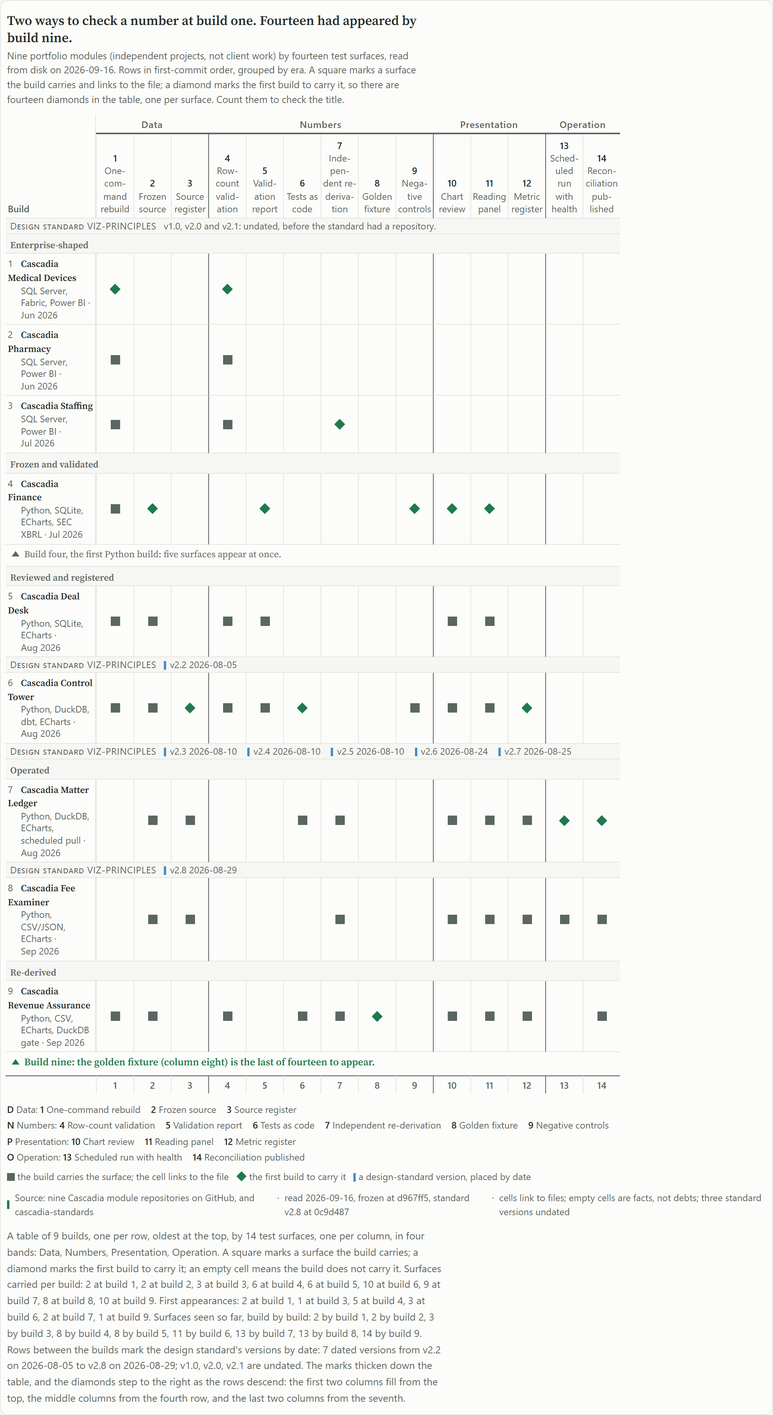
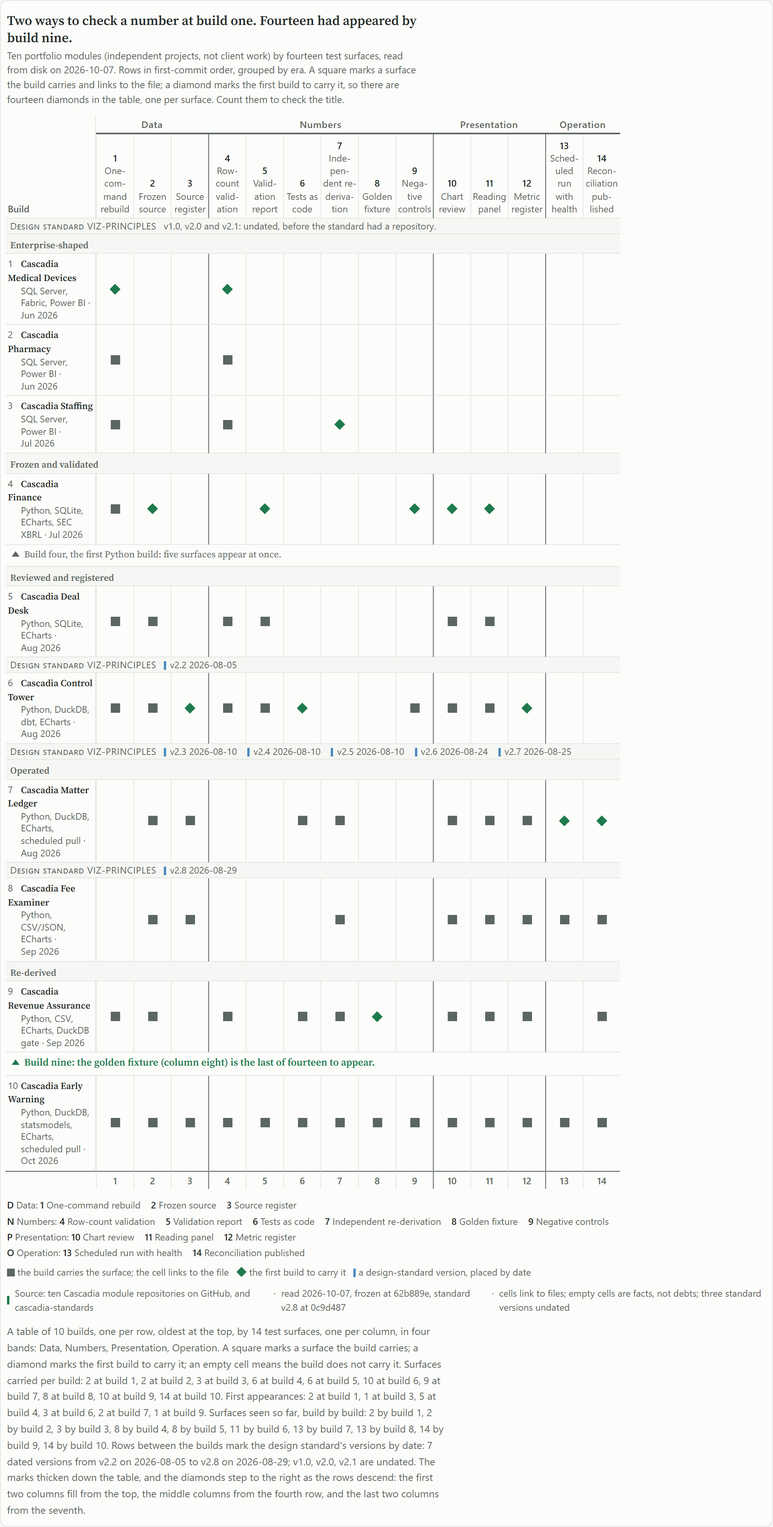
freeze.toml: baseline moved to the 2026-10-07 refreeze; the page rebuilt against it and re-rendered at the K6 ladder

diff --git a/docs/index.html b/docs/index.html
@@ -182,9 +182,9 @@
 <h2>The test-surface matrix</h2>
 <div class="chart-card" id="matrix">
   <h3 class="finding" id="matrix-title">Two ways to check a number at build one. Fourteen had appeared by build nine.</h3>
-  <p class="sub" id="matrix-sub">Nine portfolio modules (independent projects, not client work) by fourteen test surfaces, read from disk on 2026-09-16. Rows in first-commit order, grouped by era. A square marks a surface the build carries and links to the file; a diamond marks the first build to carry it, so there are fourteen diamonds in the table, one per surface. Count them to check the title.</p>
+  <p class="sub" id="matrix-sub">Ten portfolio modules (independent projects, not client work) by fourteen test surfaces, read from disk on 2026-10-07. Rows in first-commit order, grouped by era. A square marks a surface the build carries and links to the file; a diamond marks the first build to carry it, so there are fourteen diamonds in the table, one per surface. Count them to check the title.</p>
   <p class="scroll-hint">The table is wider than this screen and scrolls sideways. All fourteen columns are there.</p>
-  <p class="chart-summary" id="matrix-summary">A table of 9 builds, one per row, oldest at the top, by 14 test surfaces, one per column, in four bands: Data, Numbers, Presentation, Operation. A square marks a surface the build carries; a diamond marks the first build to carry it; an empty cell means the build does not carry it. Surfaces carried per build: 2 at build 1, 2 at build 2, 3 at build 3, 6 at build 4, 6 at build 5, 10 at build 6, 9 at build 7, 8 at build 8, 10 at build 9. First appearances: 2 at build 1, 1 at build 3, 5 at build 4, 3 at build 6, 2 at build 7, 1 at build 9. Surfaces seen so far, build by build: 2 by build 1, 2 by build 2, 3 by build 3, 8 by build 4, 8 by build 5, 11 by build 6, 13 by build 7, 13 by build 8, 14 by build 9. Rows between the builds mark the design standard&#x27;s versions by date: 7 dated versions from v2.2 on 2026-08-05 to v2.8 on 2026-08-29; v1.0, v2.0, v2.1 are undated. The marks thicken down the table, and the diamonds step to the right as the rows descend: the first two columns fill from the top, the middle columns from the fourth row, and the last two columns from the seventh.</p>
+  <p class="chart-summary" id="matrix-summary">A table of 10 builds, one per row, oldest at the top, by 14 test surfaces, one per column, in four bands: Data, Numbers, Presentation, Operation. A square marks a surface the build carries; a diamond marks the first build to carry it; an empty cell means the build does not carry it. Surfaces carried per build: 2 at build 1, 2 at build 2, 3 at build 3, 6 at build 4, 6 at build 5, 10 at build 6, 9 at build 7, 8 at build 8, 10 at build 9, 14 at build 10. First appearances: 2 at build 1, 1 at build 3, 5 at build 4, 3 at build 6, 2 at build 7, 1 at build 9. Surfaces seen so far, build by build: 2 by build 1, 2 by build 2, 3 by build 3, 8 by build 4, 8 by build 5, 11 by build 6, 13 by build 7, 13 by build 8, 14 by build 9, 14 by build 10. Rows between the builds mark the design standard&#x27;s versions by date: 7 dated versions from v2.2 on 2026-08-05 to v2.8 on 2026-08-29; v1.0, v2.0, v2.1 are undated. The marks thicken down the table, and the diamonds step to the right as the rows descend: the first two columns fill from the top, the middle columns from the fourth row, and the last two columns from the seventh.</p>
   <div class="table-scroll" tabindex="0" aria-label="Scrollable matrix">
 <table class="matrix" aria-labelledby="matrix-title" aria-describedby="matrix-sub matrix-summary">
 <thead>
@@ -206,12 +206,13 @@
 <tr class="build"><th scope="row" class="build-label"><span class="ord" aria-hidden="true">6</span><a href="https://www.robbinsanalytics.com/projects/cascadia-controltower.html">Cascadia Control Tower</a><span class="meta">Python, DuckDB, dbt, ECharts <span class="dot">·</span> <span class="when">Aug 2026</span></span></th><td class="cell"><a class="mark" href="https://github.com/RobbinsAnalytics/cascadia-controltower/blob/main/README.md" title="README.md" aria-label="One-command rebuild: README.md in cascadia-controltower"><span aria-hidden="true"></span></a></td><td class="cell"><a class="mark" href="https://github.com/RobbinsAnalytics/cascadia-controltower/blob/main/governance/freeze.toml" title="governance/freeze.toml" aria-label="Frozen source: governance/freeze.toml in cascadia-controltower"><span aria-hidden="true"></span></a></td><td class="cell"><a class="mark first" href="https://github.com/RobbinsAnalytics/cascadia-controltower/blob/main/data/raw/manifest.json" title="data/raw/manifest.json" aria-label="Source register: data/raw/manifest.json in cascadia-controltower, the first build to carry it"><span aria-hidden="true"></span></a></td><td class="cell band-start"><a class="mark" href="https://github.com/RobbinsAnalytics/cascadia-controltower/blob/main/validate.py" title="validate.py" aria-label="Row-count validation: validate.py in cascadia-controltower"><span aria-hidden="true"></span></a></td><td class="cell"><a class="mark" href="https://github.com/RobbinsAnalytics/cascadia-controltower/blob/main/governance/validation_report.md" title="governance/validation_report.md" aria-label="Validation report: governance/validation_report.md in cascadia-controltower"><span aria-hidden="true"></span></a></td><td class="cell"><a class="mark first" href="https://github.com/RobbinsAnalytics/cascadia-controltower/tree/main/dbt/tests/" title="dbt/tests/" aria-label="Tests as code: dbt/tests/ in cascadia-controltower, the first build to carry it"><span aria-hidden="true"></span></a></td><td class="cell empty"></td><td class="cell empty"></td><td class="cell"><a class="mark" href="https://github.com/RobbinsAnalytics/cascadia-controltower/blob/main/governance/validation_report.md" title="governance/validation_report.md" aria-label="Negative controls: governance/validation_report.md in cascadia-controltower"><span aria-hidden="true"></span></a></td><td class="cell band-start"><a class="mark" href="https://github.com/RobbinsAnalytics/cascadia-controltower/blob/main/governance/chart-review.md" title="governance/chart-review.md" aria-label="Chart review: governance/chart-review.md in cascadia-controltower"><span aria-hidden="true"></span></a></td><td class="cell"><a class="mark" href="https://github.com/RobbinsAnalytics/cascadia-controltower/blob/main/governance/reading-panel-returns-2026-08-09.md" title="governance/reading-panel-returns-2026-08-09.md" aria-label="Reading panel: governance/reading-panel-returns-2026-08-09.md in cascadia-controltower"><span aria-hidden="true"></span></a></td><td class="cell"><a class="mark first" href="https://github.com/RobbinsAnalytics/cascadia-controltower/blob/main/governance/metric_register.md" title="governance/metric_register.md" aria-label="Metric register: governance/metric_register.md in cascadia-controltower, the first build to carry it"><span aria-hidden="true"></span></a></td><td class="cell empty band-start"></td><td class="cell empty"></td></tr>
 <tr class="lane"><td colspan="16"><div class="stick"><span class="lane-label">Design standard VIZ-PRINCIPLES</span> <span class="lane-mark"><span class="lane-tick" aria-hidden="true"></span>v2.3 <span class="lane-date">2026-08-10</span></span> <span class="lane-mark"><span class="lane-tick" aria-hidden="true"></span>v2.4 <span class="lane-date">2026-08-10</span></span> <span class="lane-mark"><span class="lane-tick" aria-hidden="true"></span>v2.5 <span class="lane-date">2026-08-10</span></span> <span class="lane-mark"><span class="lane-tick" aria-hidden="true"></span>v2.6 <span class="lane-date">2026-08-24</span></span> <span class="lane-mark"><span class="lane-tick" aria-hidden="true"></span>v2.7 <span class="lane-date">2026-08-25</span></span></div></td></tr>
 <tr class="era-row"><th scope="rowgroup" colspan="15"><div class="stick">Operated</div></th></tr>
-<tr class="build"><th scope="rowgroup" class="era" rowspan="3"><span>Oper&shy;ated</span></th><th scope="row" class="build-label"><span class="ord" aria-hidden="true">7</span><a href="https://www.robbinsanalytics.com/projects/cascadia-matter-ledger.html">Cascadia Matter Ledger</a><span class="meta">Python, DuckDB, ECharts, scheduled pull <span class="dot">·</span> <span class="when">Aug 2026</span></span></th><td class="cell empty"></td><td class="cell"><a class="mark" href="https://github.com/RobbinsAnalytics/cascadia-matter-ledger/blob/main/governance/freeze.toml" title="governance/freeze.toml" aria-label="Frozen source: governance/freeze.toml in cascadia-matter-ledger"><span aria-hidden="true"></span></a></td><td class="cell"><a class="mark" href="https://github.com/RobbinsAnalytics/cascadia-matter-ledger/blob/main/governance/source-register.md" title="governance/source-register.md" aria-label="Source register: governance/source-register.md in cascadia-matter-ledger"><span aria-hidden="true"></span></a></td><td class="cell empty band-start"></td><td class="cell empty"></td><td class="cell"><a class="mark" href="https://github.com/RobbinsAnalytics/cascadia-matter-ledger/blob/main/src/test_touch_readout.py" title="src/test_touch_readout.py" aria-label="Tests as code: src/test_touch_readout.py in cascadia-matter-ledger"><span aria-hidden="true"></span></a></td><td class="cell"><a class="mark" href="https://github.com/RobbinsAnalytics/cascadia-matter-ledger/blob/main/src/validate_measures.py" title="src/validate_measures.py" aria-label="Independent re-derivation: src/validate_measures.py in cascadia-matter-ledger"><span aria-hidden="true"></span></a></td><td class="cell empty"></td><td class="cell empty"></td><td class="cell band-start"><a class="mark" href="https://github.com/RobbinsAnalytics/cascadia-matter-ledger/blob/main/governance/chart-review.md" title="governance/chart-review.md" aria-label="Chart review: governance/chart-review.md in cascadia-matter-ledger"><span aria-hidden="true"></span></a></td><td class="cell"><a class="mark" href="https://github.com/RobbinsAnalytics/cascadia-matter-ledger/blob/main/governance/panel/findings.json" title="governance/panel/findings.json" aria-label="Reading panel: governance/panel/findings.json in cascadia-matter-ledger"><span aria-hidden="true"></span></a></td><td class="cell"><a class="mark" href="https://github.com/RobbinsAnalytics/cascadia-matter-ledger/blob/main/governance/metric_register.md" title="governance/metric_register.md" aria-label="Metric register: governance/metric_register.md in cascadia-matter-ledger"><span aria-hidden="true"></span></a></td><td class="cell band-start"><a class="mark first" href="https://github.com/RobbinsAnalytics/cascadia-matter-ledger/blob/main/governance/health.json" title="governance/health.json" aria-label="Scheduled run with health: governance/health.json in cascadia-matter-ledger, the first build to carry it"><span aria-hidden="true"></span></a></td><td class="cell"><a class="mark first" href="https://github.com/RobbinsAnalytics/cascadia-matter-ledger/blob/main/governance/reconciliation.md" title="governance/reconciliation.md" aria-label="Reconciliation published: governance/reconciliation.md in cascadia-matter-ledger, the first build to carry it"><span aria-hidden="true"></span></a></td></tr>
+<tr class="build"><th scope="rowgroup" class="era" rowspan="3"><span>Oper&shy;ated</span></th><th scope="row" class="build-label"><span class="ord" aria-hidden="true">7</span><a href="https://www.robbinsanalytics.com/projects/cascadia-matter-ledger.html">Cascadia Matter Ledger</a><span class="meta">Python, DuckDB, ECharts, scheduled pull <span class="dot">·</span> <span class="when">Aug 2026</span></span></th><td class="cell empty"></td><td class="cell"><a class="mark" href="https://github.com/RobbinsAnalytics/cascadia-matter-ledger/blob/main/governance/freeze.toml" title="governance/freeze.toml" aria-label="Frozen source: governance/freeze.toml in cascadia-matter-ledger"><span aria-hidden="true"></span></a></td><td class="cell"><a class="mark" href="https://github.com/RobbinsAnalytics/cascadia-matter-ledger/blob/main/governance/source-register.md" title="governance/source-register.md" aria-label="Source register: governance/source-register.md in cascadia-matter-ledger"><span aria-hidden="true"></span></a></td><td class="cell empty band-start"></td><td class="cell empty"></td><td class="cell"><a class="mark" href="https://github.com/RobbinsAnalytics/cascadia-matter-ledger/blob/main/src/test_live_edge_retry.py" title="src/test_live_edge_retry.py" aria-label="Tests as code: src/test_live_edge_retry.py in cascadia-matter-ledger"><span aria-hidden="true"></span></a></td><td class="cell"><a class="mark" href="https://github.com/RobbinsAnalytics/cascadia-matter-ledger/blob/main/src/validate_measures.py" title="src/validate_measures.py" aria-label="Independent re-derivation: src/validate_measures.py in cascadia-matter-ledger"><span aria-hidden="true"></span></a></td><td class="cell empty"></td><td class="cell empty"></td><td class="cell band-start"><a class="mark" href="https://github.com/RobbinsAnalytics/cascadia-matter-ledger/blob/main/governance/chart-review.md" title="governance/chart-review.md" aria-label="Chart review: governance/chart-review.md in cascadia-matter-ledger"><span aria-hidden="true"></span></a></td><td class="cell"><a class="mark" href="https://github.com/RobbinsAnalytics/cascadia-matter-ledger/blob/main/governance/panel/findings.json" title="governance/panel/findings.json" aria-label="Reading panel: governance/panel/findings.json in cascadia-matter-ledger"><span aria-hidden="true"></span></a></td><td class="cell"><a class="mark" href="https://github.com/RobbinsAnalytics/cascadia-matter-ledger/blob/main/governance/metric_register.md" title="governance/metric_register.md" aria-label="Metric register: governance/metric_register.md in cascadia-matter-ledger"><span aria-hidden="true"></span></a></td><td class="cell band-start"><a class="mark first" href="https://github.com/RobbinsAnalytics/cascadia-matter-ledger/blob/main/governance/health.json" title="governance/health.json" aria-label="Scheduled run with health: governance/health.json in cascadia-matter-ledger, the first build to carry it"><span aria-hidden="true"></span></a></td><td class="cell"><a class="mark first" href="https://github.com/RobbinsAnalytics/cascadia-matter-ledger/blob/main/governance/reconciliation.md" title="governance/reconciliation.md" aria-label="Reconciliation published: governance/reconciliation.md in cascadia-matter-ledger, the first build to carry it"><span aria-hidden="true"></span></a></td></tr>
 <tr class="lane"><td colspan="15"><div class="stick"><span class="lane-label">Design standard VIZ-PRINCIPLES</span> <span class="lane-mark"><span class="lane-tick" aria-hidden="true"></span>v2.8 <span class="lane-date">2026-08-29</span></span></div></td></tr>
 <tr class="build"><th scope="row" class="build-label"><span class="ord" aria-hidden="true">8</span><a href="https://www.robbinsanalytics.com/projects/cascadia-fee-examiner.html">Cascadia Fee Examiner</a><span class="meta">Python, CSV/JSON, ECharts <span class="dot">·</span> <span class="when">Sep 2026</span></span></th><td class="cell empty"></td><td class="cell"><a class="mark" href="https://github.com/RobbinsAnalytics/cascadia-fee-examiner/blob/main/governance/freeze.toml" title="governance/freeze.toml" aria-label="Frozen source: governance/freeze.toml in cascadia-fee-examiner"><span aria-hidden="true"></span></a></td><td class="cell"><a class="mark" href="https://github.com/RobbinsAnalytics/cascadia-fee-examiner/blob/main/governance/source-register.md" title="governance/source-register.md" aria-label="Source register: governance/source-register.md in cascadia-fee-examiner"><span aria-hidden="true"></span></a></td><td class="cell empty band-start"></td><td class="cell empty"></td><td class="cell empty"></td><td class="cell"><a class="mark" href="https://github.com/RobbinsAnalytics/cascadia-fee-examiner/blob/main/src/validate_measures.py" title="src/validate_measures.py" aria-label="Independent re-derivation: src/validate_measures.py in cascadia-fee-examiner"><span aria-hidden="true"></span></a></td><td class="cell empty"></td><td class="cell empty"></td><td class="cell band-start"><a class="mark" href="https://github.com/RobbinsAnalytics/cascadia-fee-examiner/blob/main/governance/chart-review.md" title="governance/chart-review.md" aria-label="Chart review: governance/chart-review.md in cascadia-fee-examiner"><span aria-hidden="true"></span></a></td><td class="cell"><a class="mark" href="https://github.com/RobbinsAnalytics/cascadia-fee-examiner/blob/main/governance/chart-review.md" title="governance/chart-review.md" aria-label="Reading panel: governance/chart-review.md in cascadia-fee-examiner"><span aria-hidden="true"></span></a></td><td class="cell"><a class="mark" href="https://github.com/RobbinsAnalytics/cascadia-fee-examiner/blob/main/governance/metric_register.md" title="governance/metric_register.md" aria-label="Metric register: governance/metric_register.md in cascadia-fee-examiner"><span aria-hidden="true"></span></a></td><td class="cell band-start"><a class="mark" href="https://github.com/RobbinsAnalytics/cascadia-fee-examiner/blob/main/governance/health.json" title="governance/health.json" aria-label="Scheduled run with health: governance/health.json in cascadia-fee-examiner"><span aria-hidden="true"></span></a></td><td class="cell"><a class="mark" href="https://github.com/RobbinsAnalytics/cascadia-fee-examiner/blob/main/governance/reconciliation.md" title="governance/reconciliation.md" aria-label="Reconciliation published: governance/reconciliation.md in cascadia-fee-examiner"><span aria-hidden="true"></span></a></td></tr>
 <tr class="era-row"><th scope="rowgroup" colspan="15"><div class="stick">Re-derived</div></th></tr>
-<tr class="build"><th scope="rowgroup" class="era" rowspan="2"><span>Re-derived</span></th><th scope="row" class="build-label"><span class="ord" aria-hidden="true">9</span><a href="https://www.robbinsanalytics.com/projects/cascadia-revenue-assurance.html">Cascadia Revenue Assurance</a><span class="meta">Python, CSV, ECharts, DuckDB gate <span class="dot">·</span> <span class="when">Sep 2026</span></span></th><td class="cell"><a class="mark" href="https://github.com/RobbinsAnalytics/cascadia-revenue-assurance/blob/main/CLAUDE.md" title="CLAUDE.md" aria-label="One-command rebuild: CLAUDE.md in cascadia-revenue-assurance"><span aria-hidden="true"></span></a></td><td class="cell"><a class="mark" href="https://github.com/RobbinsAnalytics/cascadia-revenue-assurance/blob/main/governance/freeze.toml" title="governance/freeze.toml" aria-label="Frozen source: governance/freeze.toml in cascadia-revenue-assurance"><span aria-hidden="true"></span></a></td><td class="cell empty"></td><td class="cell band-start"><a class="mark" href="https://github.com/RobbinsAnalytics/cascadia-revenue-assurance/blob/main/src/validate.py" title="src/validate.py" aria-label="Row-count validation: src/validate.py in cascadia-revenue-assurance"><span aria-hidden="true"></span></a></td><td class="cell empty"></td><td class="cell"><a class="mark" href="https://github.com/RobbinsAnalytics/cascadia-revenue-assurance/blob/main/src/test_golden.py" title="src/test_golden.py" aria-label="Tests as code: src/test_golden.py in cascadia-revenue-assurance"><span aria-hidden="true"></span></a></td><td class="cell"><a class="mark" href="https://github.com/RobbinsAnalytics/cascadia-revenue-assurance/blob/main/src/validate_measures.py" title="src/validate_measures.py" aria-label="Independent re-derivation: src/validate_measures.py in cascadia-revenue-assurance"><span aria-hidden="true"></span></a></td><td class="cell"><a class="mark first" href="https://github.com/RobbinsAnalytics/cascadia-revenue-assurance/tree/main/tests/golden/" title="tests/golden/" aria-label="Golden fixture: tests/golden/ in cascadia-revenue-assurance, the first build to carry it"><span aria-hidden="true"></span></a></td><td class="cell empty"></td><td class="cell band-start"><a class="mark" href="https://github.com/RobbinsAnalytics/cascadia-revenue-assurance/blob/main/governance/chart-review.md" title="governance/chart-review.md" aria-label="Chart review: governance/chart-review.md in cascadia-revenue-assurance"><span aria-hidden="true"></span></a></td><td class="cell"><a class="mark" href="https://github.com/RobbinsAnalytics/cascadia-revenue-assurance/blob/main/governance/chart-review.md" title="governance/chart-review.md" aria-label="Reading panel: governance/chart-review.md in cascadia-revenue-assurance"><span aria-hidden="true"></span></a></td><td class="cell"><a class="mark" href="https://github.com/RobbinsAnalytics/cascadia-revenue-assurance/blob/main/governance/metric_register.md" title="governance/metric_register.md" aria-label="Metric register: governance/metric_register.md in cascadia-revenue-assurance"><span aria-hidden="true"></span></a></td><td class="cell empty band-start"></td><td class="cell"><a class="mark" href="https://github.com/RobbinsAnalytics/cascadia-revenue-assurance/blob/main/governance/reconciliation.md" title="governance/reconciliation.md" aria-label="Reconciliation published: governance/reconciliation.md in cascadia-revenue-assurance"><span aria-hidden="true"></span></a></td></tr>
+<tr class="build"><th scope="rowgroup" class="era" rowspan="3"><span>Re-derived</span></th><th scope="row" class="build-label"><span class="ord" aria-hidden="true">9</span><a href="https://www.robbinsanalytics.com/projects/cascadia-revenue-assurance.html">Cascadia Revenue Assurance</a><span class="meta">Python, CSV, ECharts, DuckDB gate <span class="dot">·</span> <span class="when">Sep 2026</span></span></th><td class="cell"><a class="mark" href="https://github.com/RobbinsAnalytics/cascadia-revenue-assurance/blob/main/CLAUDE.md" title="CLAUDE.md" aria-label="One-command rebuild: CLAUDE.md in cascadia-revenue-assurance"><span aria-hidden="true"></span></a></td><td class="cell"><a class="mark" href="https://github.com/RobbinsAnalytics/cascadia-revenue-assurance/blob/main/governance/freeze.toml" title="governance/freeze.toml" aria-label="Frozen source: governance/freeze.toml in cascadia-revenue-assurance"><span aria-hidden="true"></span></a></td><td class="cell empty"></td><td class="cell band-start"><a class="mark" href="https://github.com/RobbinsAnalytics/cascadia-revenue-assurance/blob/main/src/validate.py" title="src/validate.py" aria-label="Row-count validation: src/validate.py in cascadia-revenue-assurance"><span aria-hidden="true"></span></a></td><td class="cell empty"></td><td class="cell"><a class="mark" href="https://github.com/RobbinsAnalytics/cascadia-revenue-assurance/blob/main/src/test_golden.py" title="src/test_golden.py" aria-label="Tests as code: src/test_golden.py in cascadia-revenue-assurance"><span aria-hidden="true"></span></a></td><td class="cell"><a class="mark" href="https://github.com/RobbinsAnalytics/cascadia-revenue-assurance/blob/main/src/validate_measures.py" title="src/validate_measures.py" aria-label="Independent re-derivation: src/validate_measures.py in cascadia-revenue-assurance"><span aria-hidden="true"></span></a></td><td class="cell"><a class="mark first" href="https://github.com/RobbinsAnalytics/cascadia-revenue-assurance/tree/main/tests/golden/" title="tests/golden/" aria-label="Golden fixture: tests/golden/ in cascadia-revenue-assurance, the first build to carry it"><span aria-hidden="true"></span></a></td><td class="cell empty"></td><td class="cell band-start"><a class="mark" href="https://github.com/RobbinsAnalytics/cascadia-revenue-assurance/blob/main/governance/chart-review.md" title="governance/chart-review.md" aria-label="Chart review: governance/chart-review.md in cascadia-revenue-assurance"><span aria-hidden="true"></span></a></td><td class="cell"><a class="mark" href="https://github.com/RobbinsAnalytics/cascadia-revenue-assurance/blob/main/governance/chart-review.md" title="governance/chart-review.md" aria-label="Reading panel: governance/chart-review.md in cascadia-revenue-assurance"><span aria-hidden="true"></span></a></td><td class="cell"><a class="mark" href="https://github.com/RobbinsAnalytics/cascadia-revenue-assurance/blob/main/governance/metric_register.md" title="governance/metric_register.md" aria-label="Metric register: governance/metric_register.md in cascadia-revenue-assurance"><span aria-hidden="true"></span></a></td><td class="cell empty band-start"></td><td class="cell"><a class="mark" href="https://github.com/RobbinsAnalytics/cascadia-revenue-assurance/blob/main/governance/reconciliation.md" title="governance/reconciliation.md" aria-label="Reconciliation published: governance/reconciliation.md in cascadia-revenue-assurance"><span aria-hidden="true"></span></a></td></tr>
 <tr class="annotation primary"><td colspan="15"><div class="stick"><span class="ann-tick" aria-hidden="true"></span>Build nine: the golden fixture (column eight) is the last of fourteen to appear.</div></td></tr>
+<tr class="build"><th scope="row" class="build-label"><span class="ord" aria-hidden="true">10</span><a href="https://www.robbinsanalytics.com/projects/cascadia-early-warning.html">Cascadia Early Warning</a><span class="meta">Python, DuckDB, statsmodels, ECharts, scheduled pull <span class="dot">·</span> <span class="when">Oct 2026</span></span></th><td class="cell"><a class="mark" href="https://github.com/RobbinsAnalytics/cascadia-early-warning/blob/build/early-warning/README.md" title="README.md" aria-label="One-command rebuild: README.md in cascadia-early-warning"><span aria-hidden="true"></span></a></td><td class="cell"><a class="mark" href="https://github.com/RobbinsAnalytics/cascadia-early-warning/blob/build/early-warning/governance/freeze.toml" title="governance/freeze.toml" aria-label="Frozen source: governance/freeze.toml in cascadia-early-warning"><span aria-hidden="true"></span></a></td><td class="cell"><a class="mark" href="https://github.com/RobbinsAnalytics/cascadia-early-warning/blob/build/early-warning/governance/source-register.md" title="governance/source-register.md" aria-label="Source register: governance/source-register.md in cascadia-early-warning"><span aria-hidden="true"></span></a></td><td class="cell band-start"><a class="mark" href="https://github.com/RobbinsAnalytics/cascadia-early-warning/blob/build/early-warning/src/validate.py" title="src/validate.py" aria-label="Row-count validation: src/validate.py in cascadia-early-warning"><span aria-hidden="true"></span></a></td><td class="cell"><a class="mark" href="https://github.com/RobbinsAnalytics/cascadia-early-warning/blob/build/early-warning/governance/validation_report.md" title="governance/validation_report.md" aria-label="Validation report: governance/validation_report.md in cascadia-early-warning"><span aria-hidden="true"></span></a></td><td class="cell"><a class="mark" href="https://github.com/RobbinsAnalytics/cascadia-early-warning/blob/build/early-warning/src/test_golden.py" title="src/test_golden.py" aria-label="Tests as code: src/test_golden.py in cascadia-early-warning"><span aria-hidden="true"></span></a></td><td class="cell"><a class="mark" href="https://github.com/RobbinsAnalytics/cascadia-early-warning/blob/build/early-warning/src/validate_measures.py" title="src/validate_measures.py" aria-label="Independent re-derivation: src/validate_measures.py in cascadia-early-warning"><span aria-hidden="true"></span></a></td><td class="cell"><a class="mark" href="https://github.com/RobbinsAnalytics/cascadia-early-warning/tree/build/early-warning/tests/golden/" title="tests/golden/" aria-label="Golden fixture: tests/golden/ in cascadia-early-warning"><span aria-hidden="true"></span></a></td><td class="cell"><a class="mark" href="https://github.com/RobbinsAnalytics/cascadia-early-warning/blob/build/early-warning/governance/validation_report.md" title="governance/validation_report.md" aria-label="Negative controls: governance/validation_report.md in cascadia-early-warning"><span aria-hidden="true"></span></a></td><td class="cell band-start"><a class="mark" href="https://github.com/RobbinsAnalytics/cascadia-early-warning/blob/build/early-warning/governance/chart-review.md" title="governance/chart-review.md" aria-label="Chart review: governance/chart-review.md in cascadia-early-warning"><span aria-hidden="true"></span></a></td><td class="cell"><a class="mark" href="https://github.com/RobbinsAnalytics/cascadia-early-warning/blob/build/early-warning/governance/panel/findings.json" title="governance/panel/findings.json" aria-label="Reading panel: governance/panel/findings.json in cascadia-early-warning"><span aria-hidden="true"></span></a></td><td class="cell"><a class="mark" href="https://github.com/RobbinsAnalytics/cascadia-early-warning/blob/build/early-warning/governance/metric_register.md" title="governance/metric_register.md" aria-label="Metric register: governance/metric_register.md in cascadia-early-warning"><span aria-hidden="true"></span></a></td><td class="cell band-start"><a class="mark" href="https://github.com/RobbinsAnalytics/cascadia-early-warning/blob/build/early-warning/governance/health.json" title="governance/health.json" aria-label="Scheduled run with health: governance/health.json in cascadia-early-warning"><span aria-hidden="true"></span></a></td><td class="cell"><a class="mark" href="https://github.com/RobbinsAnalytics/cascadia-early-warning/blob/build/early-warning/governance/reconciliation.md" title="governance/reconciliation.md" aria-label="Reconciliation published: governance/reconciliation.md in cascadia-early-warning"><span aria-hidden="true"></span></a></td></tr>
 </tbody>
 <tfoot><tr class="foot"><td class="era-h"></td><td class="build-h"></td><td class="footnum" aria-hidden="true">1</td><td class="footnum" aria-hidden="true">2</td><td class="footnum" aria-hidden="true">3</td><td class="footnum band-start" aria-hidden="true">4</td><td class="footnum" aria-hidden="true">5</td><td class="footnum" aria-hidden="true">6</td><td class="footnum" aria-hidden="true">7</td><td class="footnum" aria-hidden="true">8</td><td class="footnum" aria-hidden="true">9</td><td class="footnum band-start" aria-hidden="true">10</td><td class="footnum" aria-hidden="true">11</td><td class="footnum" aria-hidden="true">12</td><td class="footnum band-start" aria-hidden="true">13</td><td class="footnum" aria-hidden="true">14</td></tr></tfoot>
 </table>
@@ -220,7 +221,7 @@
 <span class="band-k"><b>N</b> Numbers:</span> <span class="k"><b>4</b> Row-count valid&shy;ation</span> <span class="k"><b>5</b> Valid&shy;ation report</span> <span class="k"><b>6</b> Tests as code</span> <span class="k"><b>7</b> Inde&shy;pen&shy;dent re-deri&shy;va&shy;tion</span> <span class="k"><b>8</b> Golden fixture</span> <span class="k"><b>9</b> Nega&shy;tive controls</span><br>
 <span class="band-k"><b>P</b> Presentation:</span> <span class="k"><b>10</b> Chart review</span> <span class="k"><b>11</b> Reading panel</span> <span class="k"><b>12</b> Metric regis&shy;ter</span><br>
 <span class="band-k"><b>O</b> Operation:</span> <span class="k"><b>13</b> Sched&shy;uled run with health</span> <span class="k"><b>14</b> Recon&shy;cili&shy;ation pub&shy;lished</span><span class="legend"><span class="sq"></span> the build carries the surface; the cell links to the file &nbsp; <span class="di"></span> the first build to carry it &nbsp; <span class="lt"></span> a design-standard version, placed by date</span></p>
-  <div class="cascadia-provenance" role="note"><span class="tick"></span><span>Source: nine Cascadia module repositories on GitHub, and cascadia-standards</span> · <span>read 2026-09-16, frozen at d967ff5, standard v2.8 at 0c9d487</span> · <span>cells link to files; empty cells are facts, not debts; three standard versions undated</span></div>
+  <div class="cascadia-provenance" role="note"><span class="tick"></span><span>Source: ten Cascadia module repositories on GitHub, and cascadia-standards</span> · <span>read 2026-10-07, frozen at 62b889e, standard v2.8 at 0c9d487</span> · <span>cells link to files; empty cells are facts, not debts; three standard versions undated</span></div>
 </div>
 
 <h2>Five eras</h2>
@@ -228,7 +229,7 @@
 <section class="era-block"><h3>Frozen and validated</h3><p class="members"><a href="https://www.robbinsanalytics.com/projects/cascadia-finance.html">Cascadia Finance</a></p><dl><dt>What could be tested</dt><dd><a href="https://www.robbinsanalytics.com/projects/cascadia-finance.html">Cascadia Finance</a> froze its SEC filings under a dated freeze, reconciled quarters to filed years and committed the report, fed every check corrupted data and published that all of them rejected it, and had its charts reviewed and read by a panel. The era's name understates it: the negative controls and the reading panel arrived here, not later.</dd><dt>What had to be trusted</dt><dd>The row counts of the load, which no check compares against the source; the hashes of the raw files, which no register carries; the measure definitions, which no register states; and the published measures, which no second path re-derives.</dd><dt>What the next era brought under test</dt><dd>Tests as code, a metric register generated from the model that computes the numbers, a source register with a hash per file, and a row-count check against the source.</dd></dl></section>
 <section class="era-block"><h3>Reviewed and registered</h3><p class="members"><a href="https://www.robbinsanalytics.com/projects/cascadia-dealdesk.html">Cascadia Deal Desk</a>, <a href="https://www.robbinsanalytics.com/projects/cascadia-controltower.html">Cascadia Control Tower</a></p><dl><dt>What could be tested</dt><dd><a href="https://www.robbinsanalytics.com/projects/cascadia-dealdesk.html">Cascadia Deal Desk</a> kept everything Finance could test except the proof of failability, and added a count of conformed rows against raw. <a href="https://www.robbinsanalytics.com/projects/cascadia-controltower.html">Cascadia Control Tower</a> added dbt tests, a metric register generated from the model file and checked for drift on every build, a source register with a hash per file, and a published proof that its realism audits and structural checks trip on wrong numbers.</dd><dt>What had to be trusted</dt><dd>That the numbers stay right after the build ends, since nothing runs on a schedule and no reconciliation is published; and the published measures themselves, since neither module re-derives them down a second path.</dd><dt>What the next era brought under test</dt><dd>A scheduled run that publishes its own health and run history, a reconciliation committed with its failures, and every published cell re-derived down a separately written path.</dd></dl></section>
 <section class="era-block"><h3>Operated</h3><p class="members"><a href="https://www.robbinsanalytics.com/projects/cascadia-matter-ledger.html">Cascadia Matter Ledger</a>, <a href="https://www.robbinsanalytics.com/projects/cascadia-fee-examiner.html">Cascadia Fee Examiner</a></p><dl><dt>What could be tested</dt><dd><a href="https://www.robbinsanalytics.com/projects/cascadia-matter-ledger.html">Cascadia Matter Ledger</a> and <a href="https://www.robbinsanalytics.com/projects/cascadia-fee-examiner.html">Cascadia Fee Examiner</a> run a pipeline that re-asserts its invariants on a schedule and publish its health, its run history and a reconciliation that records the runs that stopped or failed. Both re-derive every published cell down a separately written path and carry a source register with hashes. Matter Ledger's one test file tests the page's touch readout in a browser.</dd><dt>What had to be trusted</dt><dd>The build order, which neither states; the load's row counts, which neither compares to the source; the checks' own failability, which neither proves in a committed report; and the engine's first output, since no golden fixture existed before the code.</dd><dt>What the next era brought under test</dt><dd>A golden fixture specified by hand and committed failing before any engine existed, and a second derivation path written from the rules document rather than from the first path's code.</dd></dl></section>
-<section class="era-block"><h3>Re-derived</h3><p class="members"><a href="https://www.robbinsanalytics.com/projects/cascadia-revenue-assurance.html">Cascadia Revenue Assurance</a></p><dl><dt>What could be tested</dt><dd><a href="https://www.robbinsanalytics.com/projects/cascadia-revenue-assurance.html">Cascadia Revenue Assurance</a> derives every published cell down two paths written from one rules document and compares them cell by cell; a hand-specified golden fixture, committed failing before either engine, passes on both. It keeps the freeze, the metric register, the chart review, the panel and the reconciliation, and adds tests as code.</dd><dt>What had to be trusted</dt><dd>The source register, since a synthetic snapshot carries no hashes; the validation report and the proof of failability, since its gates print their result and do not commit it; and operation over time, since nothing runs on a schedule.</dd><dt>What the next era brought under test</dt><dd>Nothing is under test for a tenth build yet. No row exists for it, and no retrospective has been written for this one.</dd></dl></section>
+<section class="era-block"><h3>Re-derived</h3><p class="members"><a href="https://www.robbinsanalytics.com/projects/cascadia-revenue-assurance.html">Cascadia Revenue Assurance</a>, <a href="https://www.robbinsanalytics.com/projects/cascadia-early-warning.html">Cascadia Early Warning</a></p><dl><dt>What could be tested</dt><dd><a href="https://www.robbinsanalytics.com/projects/cascadia-revenue-assurance.html">Cascadia Revenue Assurance</a> derives every published cell down two paths written from one rules document and compares them cell by cell; a hand-specified golden fixture, committed failing before either engine, passes on both. It keeps the freeze, the metric register, the chart review, the panel and the reconciliation, and adds tests as code.</dd><dt>What had to be trusted</dt><dd>The source register, since a synthetic snapshot carries no hashes; the validation report and the proof of failability, since its gates print their result and do not commit it; and operation over time, since nothing runs on a schedule.</dd><dt>What the next era brought under test</dt><dd>Nothing is under test for a tenth build yet. No row exists for it, and no retrospective has been written for this one.</dd></dl></section>
 
 
 <h2>The walk</h2>
@@ -238,7 +239,7 @@
 <p><a href="https://www.robbinsanalytics.com/projects/cascadia-dealdesk.html">Cascadia Deal Desk</a> and <a href="https://www.robbinsanalytics.com/projects/cascadia-controltower.html">Cascadia Control Tower</a> kept those and registered what they published: a metric register generated from the model, tests in the warehouse layer, and a source register with a hash per file.</p>
 <p><a href="https://www.robbinsanalytics.com/projects/cascadia-matter-ledger.html">Cascadia Matter Ledger</a> and <a href="https://www.robbinsanalytics.com/projects/cascadia-fee-examiner.html">Cascadia Fee Examiner</a> ran on a schedule and published what running looks like: health, history, a reconciliation that records its own failures, and every published cell re-derived a second way.</p>
 <p><a href="https://www.robbinsanalytics.com/projects/cascadia-revenue-assurance.html">Cascadia Revenue Assurance</a> wrote the rules first, the golden fixture second and two engines third, and published nothing until all of them agreed.</p>
-<p class="list-intro">Nine modules, oldest first.</p>
+<p class="list-intro">Ten modules, oldest first.</p>
 <ol class="modules">
 <li><a href="https://www.robbinsanalytics.com/projects/cascadia-medical-devices.html">Cascadia Medical Devices</a><span class="line">A simulated MES and NASA engine-degradation data in SQL Server, Fabric and Power BI: OEE and predictive maintenance, rebuilt by one script with a row-count table at the end.</span></li>
 <li><a href="https://www.robbinsanalytics.com/projects/cascadia-pharmacy.html">Cascadia Pharmacy</a><span class="line">CMS Part D and CDC VaxView in SQL Server and Power BI: messy public data cleaned into a star schema, with row counts validated on load.</span></li>
@@ -249,6 +250,7 @@
 <li><a href="https://www.robbinsanalytics.com/projects/cascadia-matter-ledger.html">Cascadia Matter Ledger</a><span class="line">Federal civil dockets, frozen and then extended by a scheduled pull that publishes its health, its history and its reconciliation.</span></li>
 <li><a href="https://www.robbinsanalytics.com/projects/cascadia-fee-examiner.html">Cascadia Fee Examiner</a><span class="line">Bankruptcy fee applications resolved across sources with no shared key: a source register with hashes and every cell re-derived a second way.</span></li>
 <li><a href="https://www.robbinsanalytics.com/projects/cascadia-revenue-assurance.html">Cascadia Revenue Assurance</a><span class="line">A synthetic subscription book: two derivation paths from one rules document, a golden fixture written first, and invoices reconciled to the month.</span></li>
+<li><a href="https://www.robbinsanalytics.com/projects/cascadia-early-warning.html">Cascadia Early Warning</a><span class="line">Public FDA device-report counts for seven product codes: a forecast pre-registered before its first row, a locked test run once, every cell re-derived in SQL, and a weekly live edge that scores each forecast as its month elapses.</span></li>
 </ol>
 <p class="closing">From here the walk is a conversation. Pick a module; its row is where it starts.</p>
 
@@ -256,9 +258,9 @@
 
 <div class="disclosure">
 <h3>About this page</h3>
-<p>An independent portfolio project by Aaron Robbins. This page is generated from two data files, data/builds.json and data/standard.json, in the repository linked below; the inventory script that writes them reads the nine module repositories and never writes in one. No score, level, weight or percentage exists in the data. A cell is a path or it is empty. Older modules are not retrofitted; an empty cell is a fact about what a build carried, never a debt.</p>
+<p>An independent portfolio project by Aaron Robbins. This page is generated from two data files, data/builds.json and data/standard.json, in the repository linked below; the inventory script that writes them reads the ten module repositories and never writes in one. No score, level, weight or percentage exists in the data. A cell is a path or it is empty. Older modules are not retrofitted; an empty cell is a fact about what a build carried, never a debt.</p>
 <p>Source, the inventory script, the surface definitions and the two data files:
-<a href="https://github.com/RobbinsAnalytics/cascadia-build-by-build">github.com/RobbinsAnalytics/cascadia-build-by-build</a>. How a cell is filled or left empty is a written rule per column, in <a href="https://github.com/RobbinsAnalytics/cascadia-build-by-build/blob/main/governance/surfaces.md">governance/surfaces.md</a>. Inventory read 2026-09-16; data frozen at commit <code>d967ff5</code>.</p>
+<a href="https://github.com/RobbinsAnalytics/cascadia-build-by-build">github.com/RobbinsAnalytics/cascadia-build-by-build</a>. How a cell is filled or left empty is a written rule per column, in <a href="https://github.com/RobbinsAnalytics/cascadia-build-by-build/blob/main/governance/surfaces.md">governance/surfaces.md</a>. Inventory read 2026-10-07; data frozen at commit <code>62b889e</code>.</p>
 </div>
 
 </div>
